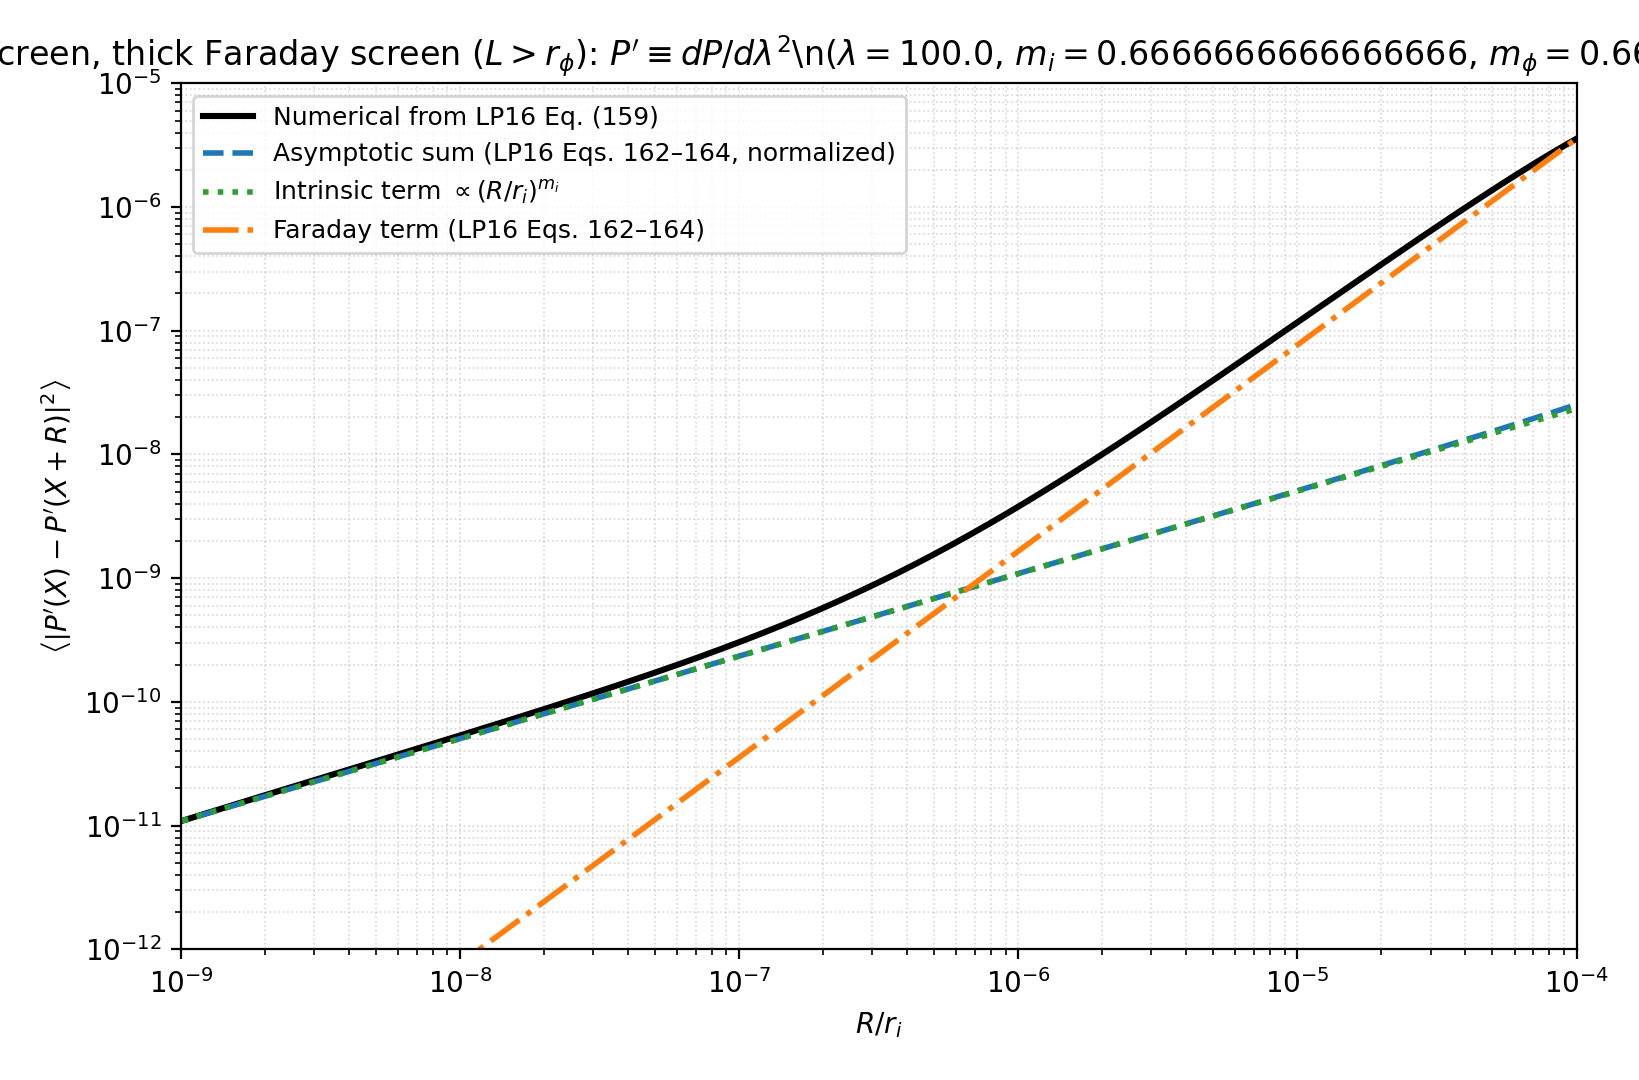
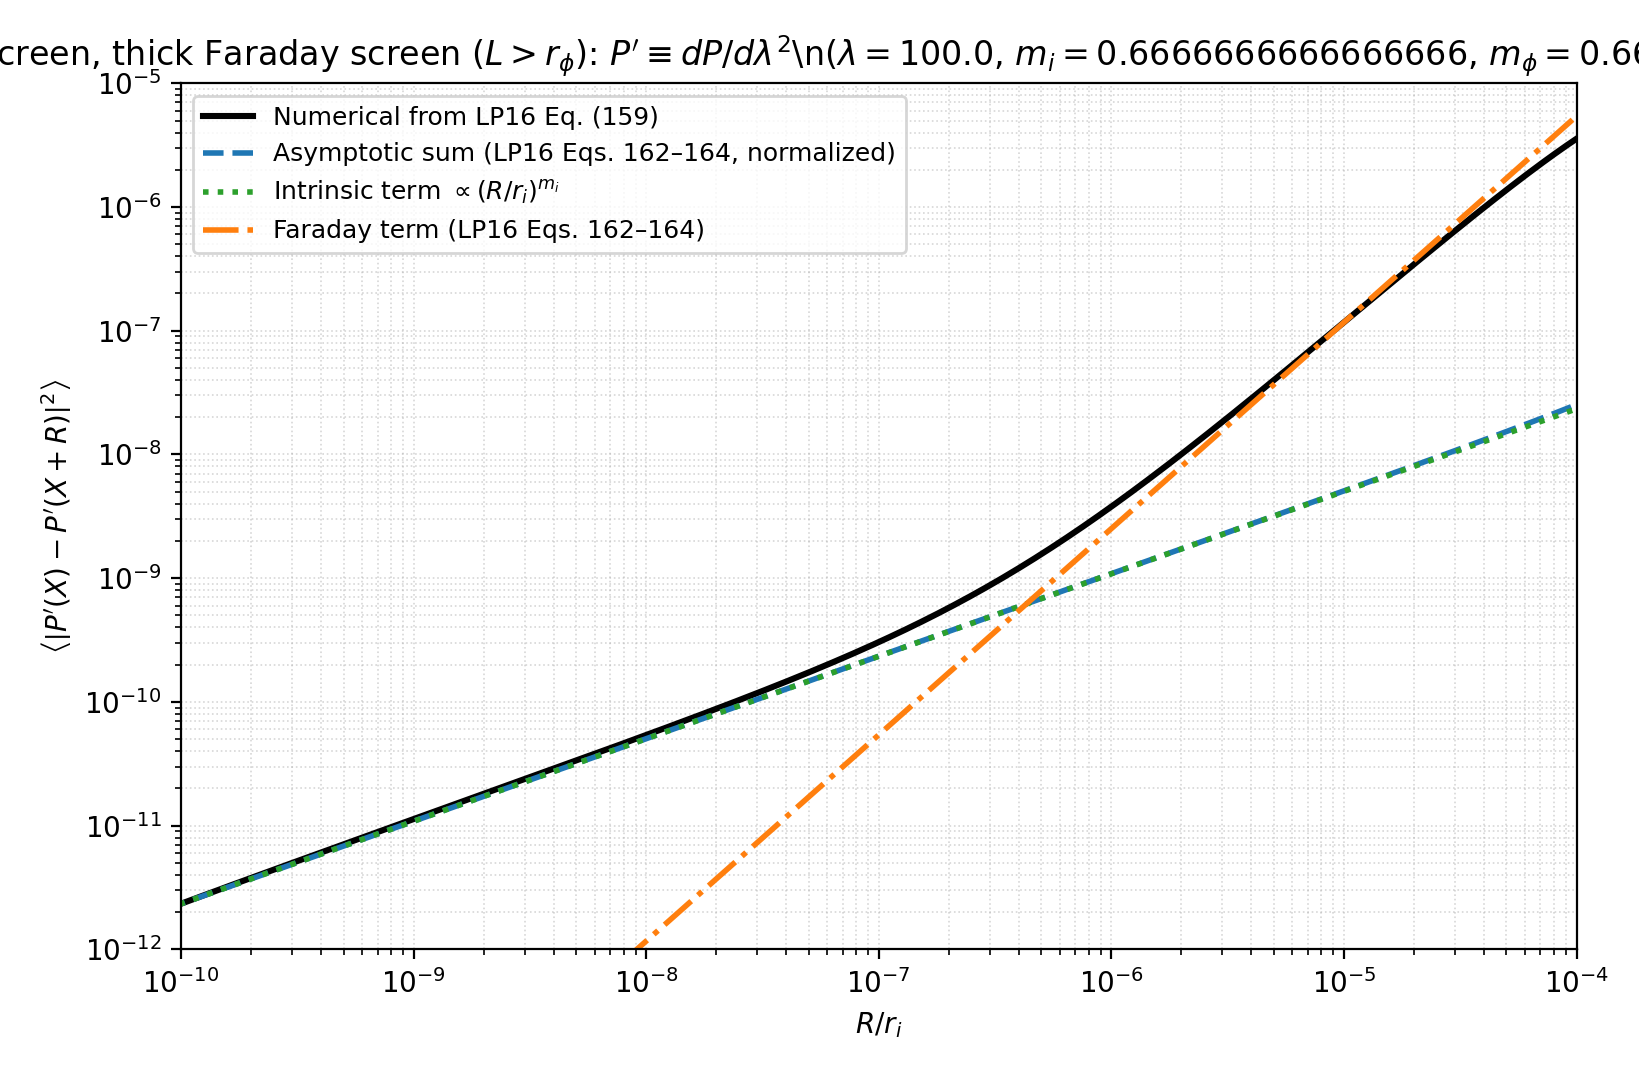
Thick line assymptotics

diff --git a/compare_measures/directional_spectrum/theor_prediction_director/dominated_regimes.py b/compare_measures/directional_spectrum/theor_prediction_director/dominated_regimes.py
@@ -122,7 +122,7 @@ def plot_derivative_measure(screen_type, params, outfile):
     Rmin_rel = params["Rmin"]
     Rmax_rel = params["Rmax"]
 
-    Rmax_abs = Rmax_rel * r_i
+    Rmax_abs = Rmax_rel * r_i *0.01
     Rmin_100 = 100.0 * Rmin_rel * r_i
     
     Rmax_abs = max(R[0], min(R[-1], Rmax_abs))
@@ -142,7 +142,7 @@ def plot_derivative_measure(screen_type, params, outfile):
     ax.loglog(R[1:] / r_i, SF_far[1:], ls="-.", lw=2.0, color="C1",
               label=r"Faraday term (LP16 Eqs. 162–164)")
 
-    ax.set_xlim(params["Rmin"]*100, params["Rmax"])
+    ax.set_xlim(params["Rmin"]*100, params["Rmax"]*0.1)
     ax.set_ylim(1e-12, 1e-5)
 
     ax.set_title(title + rf"\n($\lambda={lam}$, $m_i={m_i}$, $m_\phi={m_phi}$)")
@@ -165,8 +165,8 @@ def main():
         m_phi=2/3,
         sigma_phi2=5e-10,
         lam=100.0,
-        Rmin=1e-11,
-        Rmax=1e-4,
+        Rmin=1e-12,
+        Rmax=1e-3,
         NR=520,
         Nu=7000,
     )
